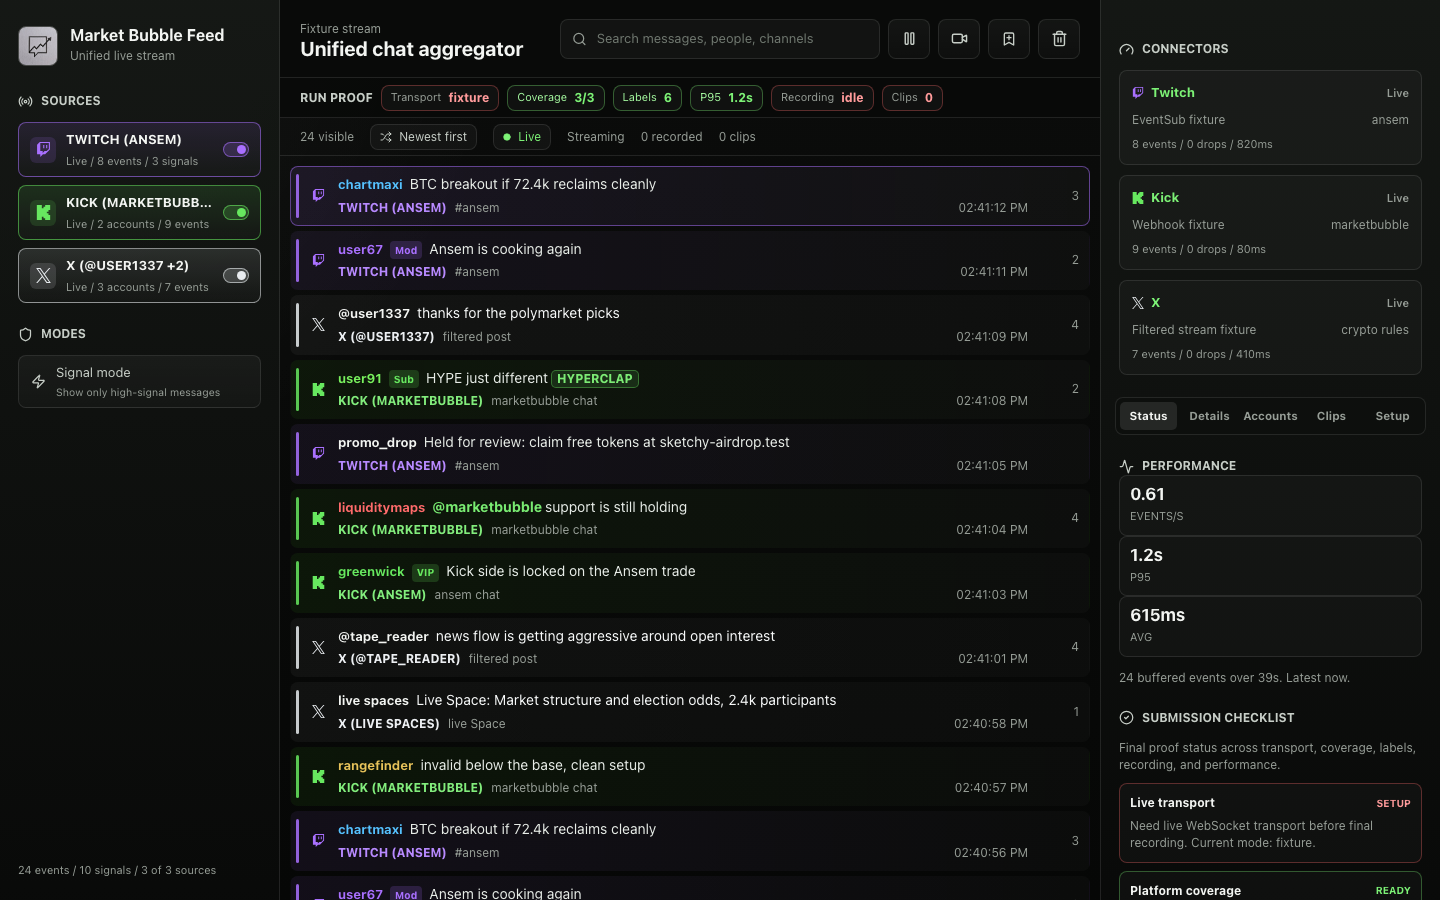
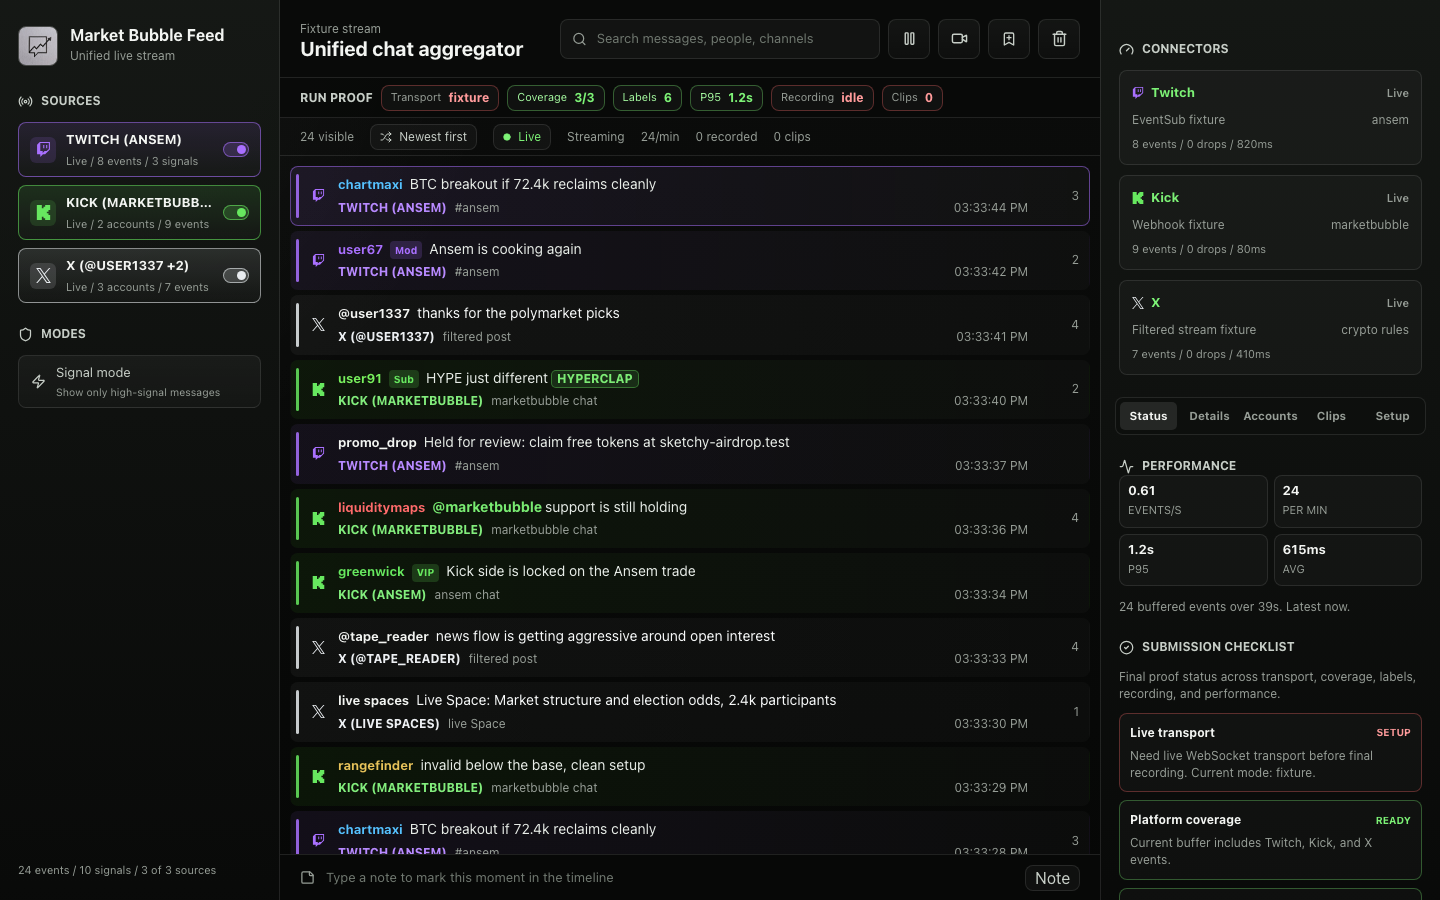
Document operator notes, message rate, and OBS dock workflow

diff --git a/docs/user-guide.md b/docs/user-guide.md
@@ -71,6 +71,10 @@ Below them, five tabs:
 
 **Save your buffer.** `Save current buffer` in the Clips tab keeps the session in local storage (latest 12). Load any saved session back as a replay with one click.
 
+**Mark a moment with a note.** Type into the note bar at the bottom of the feed and press Enter. The note appears in the timeline as a gold row at its exact time, survives a reload, and exports as JSON from the Clips tab. Notes are local only; they never post to any platform. Use them for marks like "raid started here" or "clip the next 30 seconds".
+
+**Watch the pace.** The toolbar shows live messages per minute, and the Status tab adds events per second, p95 latency, and average latency.
+
 ## Going live with real chat
 
 Copy the template and fill in only the platforms you need. Any platform without credentials stays in demo mode, so a partial setup still runs.
@@ -174,6 +178,16 @@ Change the URL parameters to shape the shot:
 - `sources` picks platforms, `q` pre-fills the search, `signal` shows only high-signal messages, and `limit` caps visible rows.
 - The same links are ready to copy in the dashboard's **Setup tab** under OBS presets.
 - To generate a full OBS setup file with every preset and these exact settings, run `npm run obs:handoff -- --out qa/obs` and open `qa/obs/obs-browser-sources.md`.
+
+### Run the full dashboard as an OBS dock
+
+The overlay is for viewers. For yourself, you can pin the whole interactive dashboard inside OBS:
+
+1. In OBS: **View, Docks, Custom Browser Docks**.
+2. Dock name: `Market Bubble Feed`. URL: `http://127.0.0.1:5173/`.
+3. Click Apply. The dashboard appears as a dock you can drag next to your scenes and audio mixer.
+
+The layout adapts to the dock's width automatically. You get the live feed, search, pause, clip, notes, and connector health inside OBS while you stream, with no extra window to alt-tab to.
 
 ## Troubleshooting
 

diff --git a/README.md b/README.md
@@ -20,9 +20,10 @@ Streaming to Twitch, Kick, and X at the same time means three chats in three win
 - Search across messages, authors, accounts, and platforms
 - One-click source toggles and a signal-only mode for high-value messages
 - Clip queue to mark the best moments, with reload-safe persistence and JSON export
+- Operator notes that mark moments in the timeline, reload-safe and exportable
 - Recording with JSON/CSV export, replay import, and shareable replay links
-- OBS browser-source overlay mode with a transparent background
-- Connector health, latency, and throughput proof built into the UI
+- OBS browser-source overlay mode with a transparent background, plus a dock-ready responsive layout
+- Connector health, live messages per minute, latency, and throughput proof built into the UI
 - Server-side session archives (JSONL and SQLite) that survive browser reloads
 
 ## Quick start

diff --git a/docs/operations.md b/docs/operations.md
@@ -105,6 +105,8 @@ The `Review queue` flags held, deleted, or spam-risk messages when those signals
 
 The `Clip queue` lets the operator mark selected messages during the stream. Marked clips preserve the full normalized event, source-account label, and clip timestamp, stay visible in the run-proof strip, survive a browser refresh through local storage, and can be exported as a separate JSON file for choosing the best submission moments after the recording.
 
+Operator notes work alongside clips: the note bar at the bottom of the feed adds a local gold-marked row at the current time, searches like any message, persists through reloads, and exports as `market-bubble-notes` JSON from the Clips tab. Notes never post to any platform.
+
 The Status tab includes a `Performance` panel with current buffer throughput, average latency, p95 latency, and latest event freshness for visible proof during the recording, plus a `Submission checklist` that tracks whether the current run has live WebSocket transport, Twitch/Kick/X coverage, account-qualified source labels, active recording proof, and visible performance metrics before the final capture.
 
 The feed panel includes a compact `Run proof` strip for dashboard, submission, and OBS captures. It keeps transport state, platform coverage, account-label count, p95 latency, recording count, and clip count visible even when operator rails are hidden.